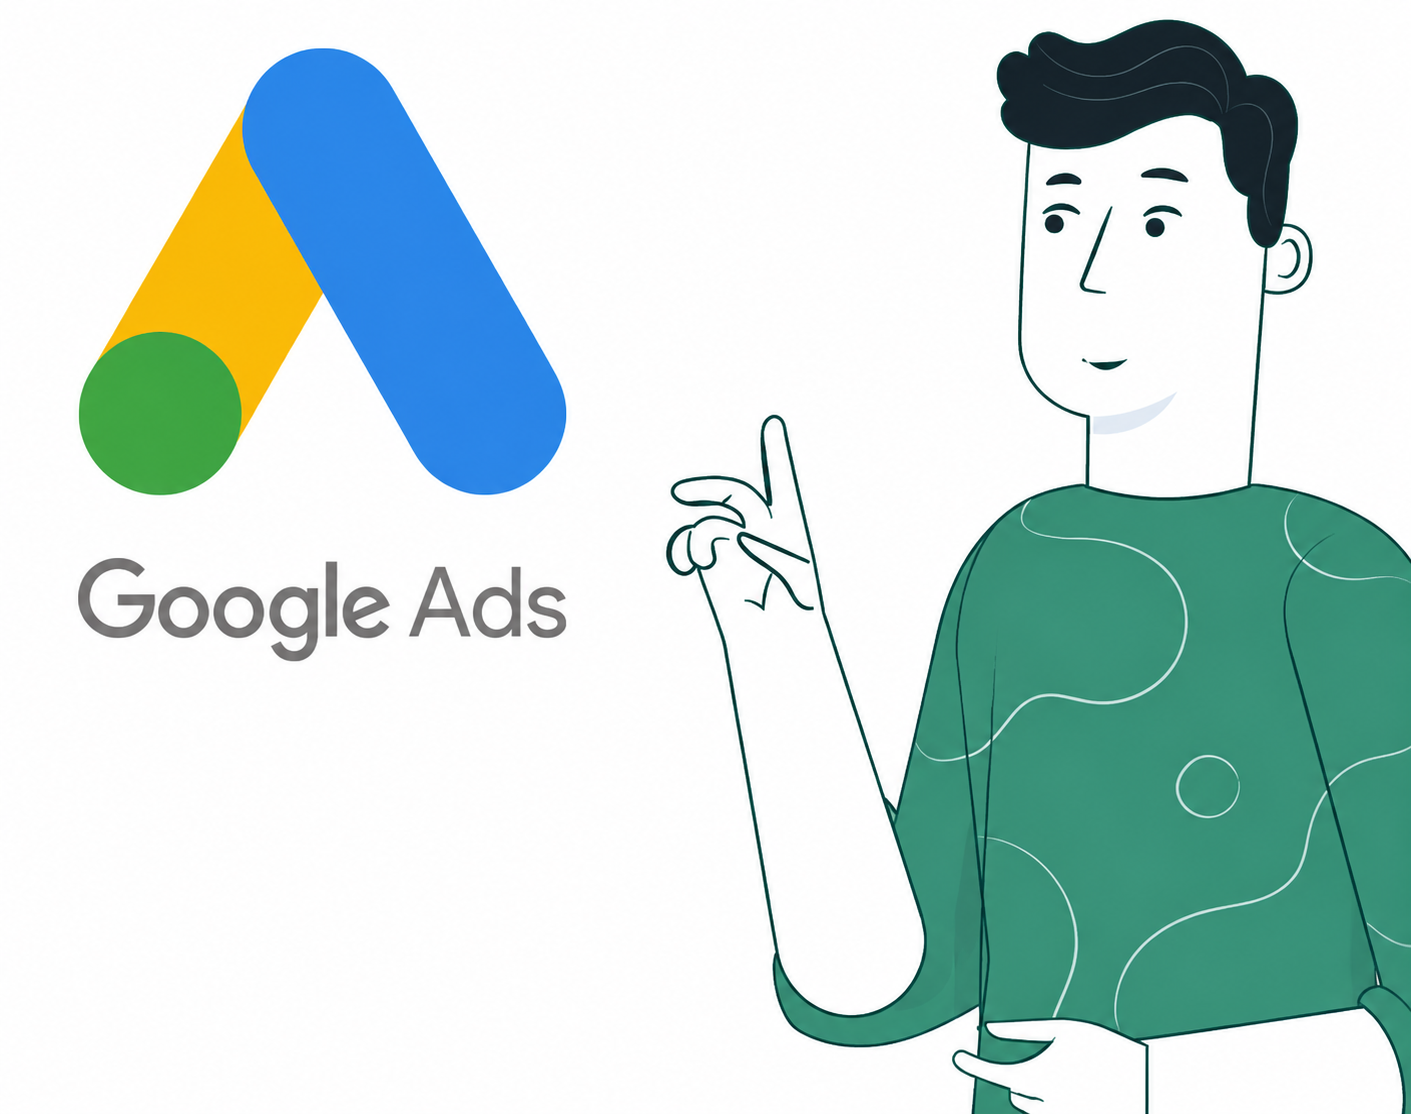
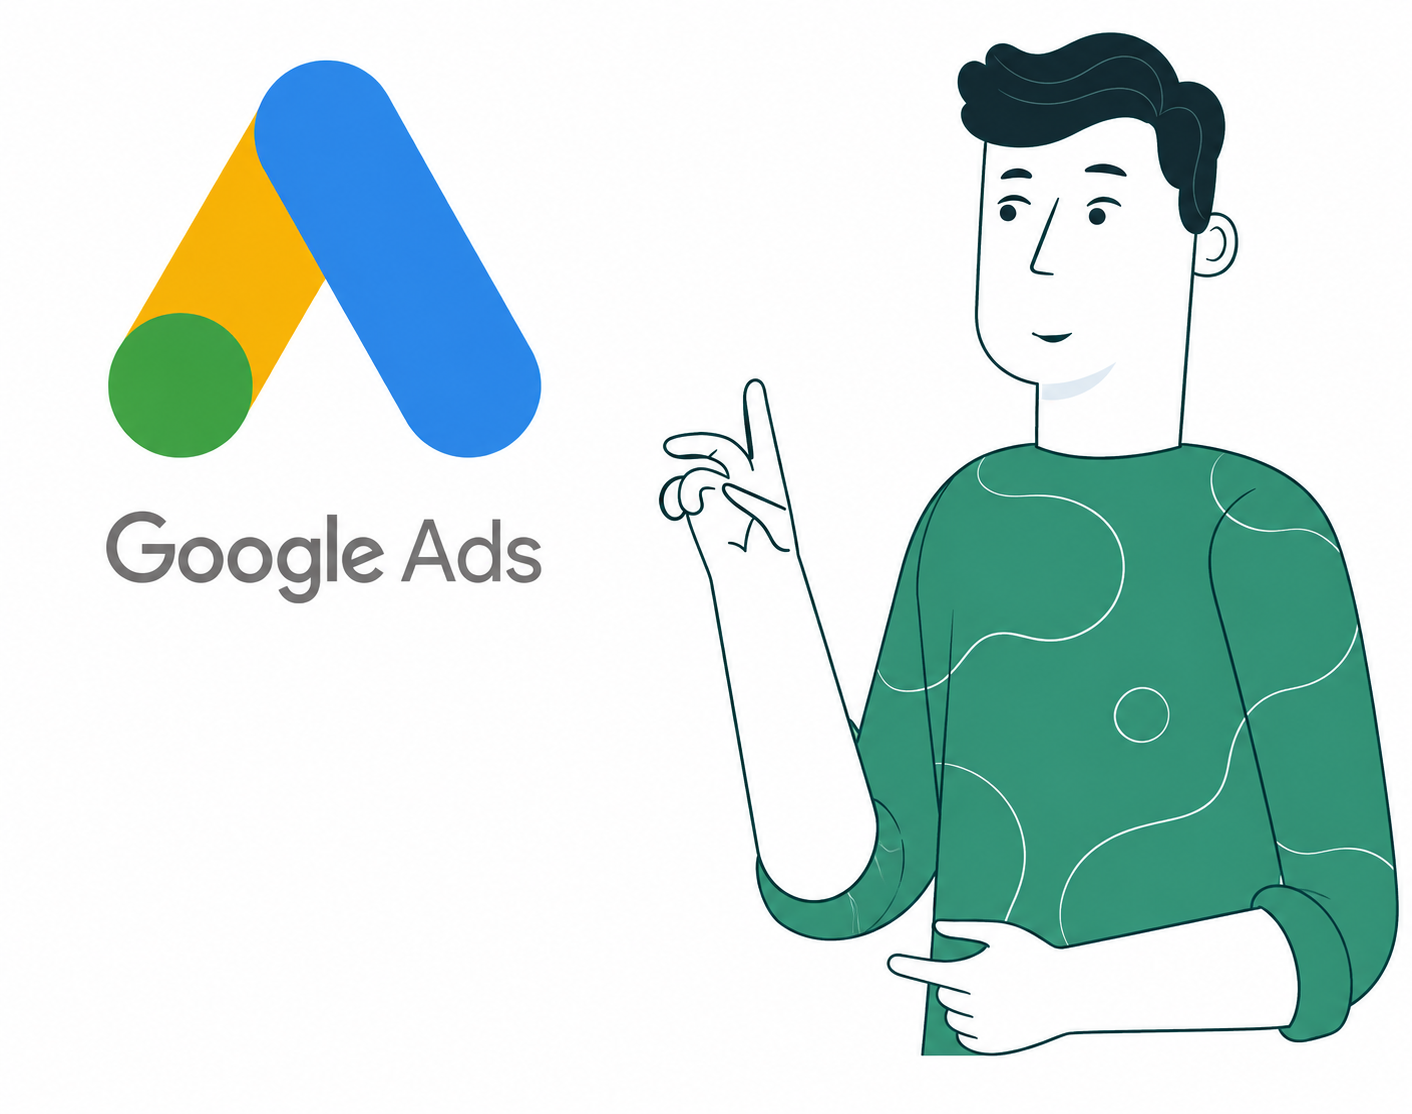
+

diff --git a/lead-generation.html b/lead-generation.html
@@ -1664,7 +1664,7 @@
                         ></span>
 
                         <img
-                            src="assets/img/services/google-ads-service-data.png"
+                            src="assets/img/services/google-ads-service-data-transparent.png"
                             alt="CRM lead tracking and marketing automation illustration"
                             width="1411"
                             height="1114"

diff --git a/google-ads-management.html b/google-ads-management.html
@@ -1834,7 +1834,7 @@
                         ></span>
 
                         <img
-                            src="assets/img/services/google-ads-service-data.png"
+                            src="assets/img/services/google-ads-service-data-transparent.png"
                             alt="Google Ads analytics and conversion data illustration"
                             width="1411"
                             height="1114"

diff --git a/ecommerce-advertising.html b/ecommerce-advertising.html
@@ -1888,7 +1888,7 @@
 
 
                         <img
-                            src="assets/img/services/google-ads-service-data.png"
+                            src="assets/img/services/google-ads-service-data-transparent.png"
                             alt="E-commerce revenue tracking and advertising analytics illustration"
                             width="1411"
                             height="1114"

diff --git a/tracking-automation.html b/tracking-automation.html
@@ -1822,7 +1822,7 @@
 
 
                         <img
-                            src="assets/img/services/google-ads-service-data.png"
+                            src="assets/img/services/google-ads-service-data-transparent.png"
                             alt="Automated advertising data and CRM feedback illustration"
                             width="1411"
                             height="1114"
